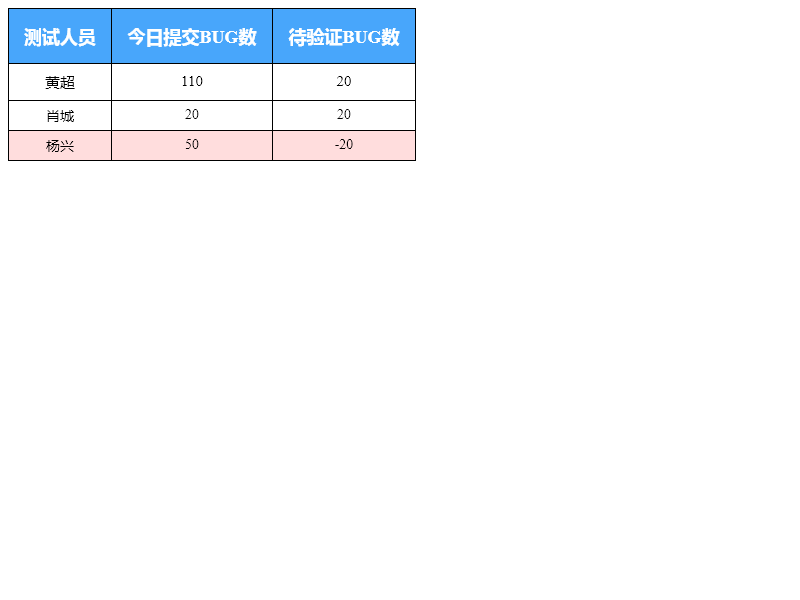
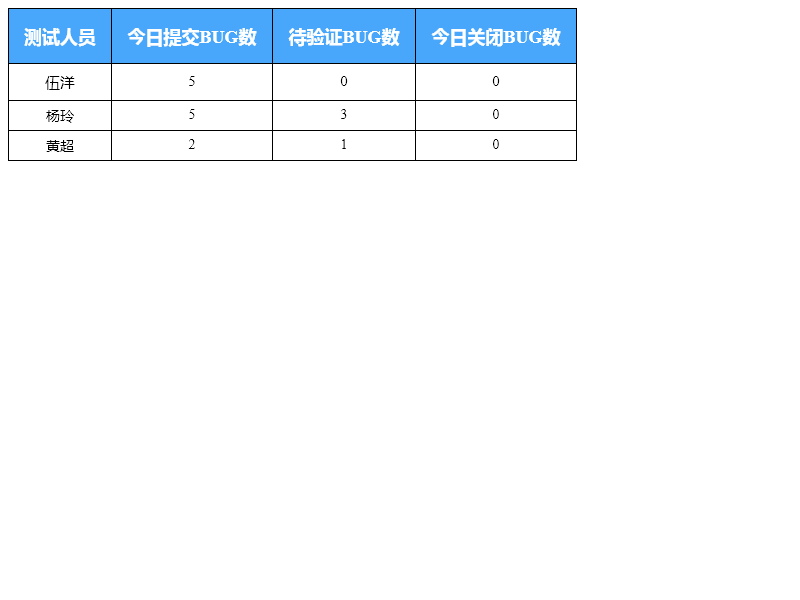
12/15

diff --git a/Tapd/html/testerHtml.html b/Tapd/html/testerHtml.html
@@ -5,6 +5,6 @@
     <title>模板</title>
 </head>
 <body>
-<table style="border-collapse:collapse;word-break:keep-all;white-space:nowrap;font-size:14px;"><tr style="color:#fff;background-color:#48a6fb;font-size:18px;"><th style="border-color:#000;border-width:1px;border-style:solid;padding:15px;text-align:center;">测试人员</th><th style="border-color:#000;border-width:1px;border-style:solid;padding:15px;text-align:center;">今日提交BUG数</th><th style="border-color:#000;border-width:1px;border-style:solid;padding:15px;text-align:center;">待验证BUG数</th></tr><tr><td style="border-color:#000;border-width:1px;border-style:solid;padding:8px;text-align:center;font-size:15px;">黄超</td><td style="border-color:#000;border-width:1px;border-style:solid;padding:8px;text-align:center;font-size:15px;">110</td><td style="border-color:#000;border-width:1px;border-style:solid;padding:8px;text-align:center;font-size:15px;">20</td></tr><tr><td style="border-color:#000;border-width:1px;border-style:solid;padding:5px;text-align:center;">肖城</td><td style="border-color:#000;border-width:1px;border-style:solid;padding:5px;text-align:center;">20</td><td style="border-color:#000;border-width:1px;border-style:solid;padding:5px;text-align:center;">20</td></tr><tr style="background-color:#ffdddd;"><td style="border-color:#000;border-width:1px;border-style:solid;padding:5px;text-align:center;">杨兴</td><td style="border-color:#000;border-width:1px;border-style:solid;padding:5px;text-align:center;">50</td><td style="border-color:#000;border-width:1px;border-style:solid;padding:5px;text-align:center;">-20</td></tr></table>
+<table style="border-collapse:collapse;word-break:keep-all;white-space:nowrap;font-size:14px;"><tr style="color:#fff;background-color:#48a6fb;font-size:18px;"><th style="border-color:#000;border-width:1px;border-style:solid;padding:15px;text-align:center;">测试人员</th><th style="border-color:#000;border-width:1px;border-style:solid;padding:15px;text-align:center;">今日提交BUG数</th><th style="border-color:#000;border-width:1px;border-style:solid;padding:15px;text-align:center;">待验证BUG数</th><th style="border-color:#000;border-width:1px;border-style:solid;padding:15px;text-align:center;">今日关闭BUG数</th></tr><tr><td style="border-color:#000;border-width:1px;border-style:solid;padding:8px;text-align:center;font-size:15px;">伍洋</td><td style="border-color:#000;border-width:1px;border-style:solid;padding:8px;text-align:center;font-size:15px;">5</td><td style="border-color:#000;border-width:1px;border-style:solid;padding:8px;text-align:center;font-size:15px;">0</td><td style="border-color:#000;border-width:1px;border-style:solid;padding:8px;text-align:center;font-size:15px;">0</td></tr><tr><td style="border-color:#000;border-width:1px;border-style:solid;padding:5px;text-align:center;">杨玲</td><td style="border-color:#000;border-width:1px;border-style:solid;padding:5px;text-align:center;">5</td><td style="border-color:#000;border-width:1px;border-style:solid;padding:5px;text-align:center;">3</td><td style="border-color:#000;border-width:1px;border-style:solid;padding:5px;text-align:center;">0</td></tr><tr><td style="border-color:#000;border-width:1px;border-style:solid;padding:5px;text-align:center;">黄超</td><td style="border-color:#000;border-width:1px;border-style:solid;padding:5px;text-align:center;">2</td><td style="border-color:#000;border-width:1px;border-style:solid;padding:5px;text-align:center;">1</td><td style="border-color:#000;border-width:1px;border-style:solid;padding:5px;text-align:center;">0</td></tr></table>
 </body>
 </html>

diff --git a/Tapd/main.py b/Tapd/main.py
@@ -1,4 +1,7 @@
+#-*-coding:utf-8-*-
 import math
+import os
+
 import matplotlib.pyplot as plt
 import numpy as np
 from selenium import webdriver
@@ -6,6 +9,9 @@ from fake_useragent import UserAgent
 from selenium.webdriver.chrome.options import Options
 from time import localtime, strftime, time
 from Tapd.crawlingData import crawlingData
+from Tapd.createHtml import createHtml
+from Tapd.screenshot import createPng
+from Tapd.sendMessage import sendPNGMessage
 from Tapd.utils import getdateNum
 
 
@@ -15,7 +21,7 @@ chrome_options.add_argument('User-Agent={}'.format(UserAgent().chrome))
 driver = webdriver.Chrome(options=chrome_options)
 
 my_datas = crawlingData(driver)
-today = strftime("%Y-%m-%d", localtime(time()))
+# print(my_datas)
 
 def draw_chart(dict, label_name, y_name, title, path):
     # 解决plt画图中文不能显示的问题
@@ -81,43 +87,109 @@ def draw_chart(dict, label_name, y_name, title, path):
 def draw(list, dict, my_datas):
     # 每日新增BUG数
     dict1 = {i:getdateNum(my_datas, {"创建时间": i}) for i in list}
-    draw_chart(dict1, 'bugs', 'bug_datas', '每日新增bug数', './png/每日新增bug数.jpg')
+    draw_chart(dict1, 'bugs', 'bug_datas', '每日新增bug数', './png/每日新增bug数.png')
 
     # 每日待修复BUG数
-    draw_chart(dict, 'bugs', 'bug_datas', '每日待修复BUG数', './png/每日待修复BUG数.jpg')
+    draw_chart(dict, 'bugs', 'bug_datas', '每日待修复BUG数', './png/每日待修复BUG数.png')
 
     # 每日已解决BUG数
     dict3 = {i: getdateNum(my_datas, {"解决时间": i}) for i in list}
-    draw_chart(dict3, 'bugs', 'bug_datas', '每日解决bug数', './png/每日解决bug数.jpg')
+    draw_chart(dict3, 'bugs', 'bug_datas', '每日解决bug数', './png/每日解决bug数.png')
 
     # 每日关闭BUG数
     dict4 = {i: getdateNum(my_datas, {"关闭时间": i}) for i in list}
-    draw_chart(dict4, 'bugs', 'bug_datas', '每日关闭bug数', './png/每日关闭bug数.jpg')
+    draw_chart(dict4, 'bugs', 'bug_datas', '每日关闭bug数', './png/每日关闭bug数.png')
 
 
-def statisticsDta(my_datas,today) -> int:
-    print("每日新增BUG数：{}".format(getdateNum(my_datas, {"创建时间": today})))
-    print("每日待修复BUG数：{}".format(getdateNum(my_datas, {"状态": '新'})))
-    activation_bugs = getdateNum(my_datas, {"状态": '新'})
-    print("每日已解决BUG数：{}".format(getdateNum(my_datas, {"解决时间": today})))
-    print("每日关闭BUG数：{}".format(getdateNum(my_datas, {"关闭时间": today})))
+def statisticsDta(my_datas,today,version) -> int:
+    print("每日新增BUG数：{}".format(getdateNum(my_datas, {"创建时间": today, '发现版本': version})))
+    print("每日待修复BUG数：{}".format(getdateNum(my_datas, {"状态": '新', '发现版本': version})))
+    activation_bugs = getdateNum(my_datas, {"状态": '新', '发现版本': version})
+    print("每日已解决BUG数：{}".format(getdateNum(my_datas, {"解决时间": today, '发现版本': version})))
+    print("每日关闭BUG数：{}".format(getdateNum(my_datas, {"关闭时间": today, '发现版本': version})))
     return activation_bugs
 
+
+def testerData(my_datas, person, today, version):
+    testerListData = []
+    submit_bugs = getdateNum(my_datas, {"创建时间": today, '创建人': person, '发现版本': version})
+    verified_bugs = getdateNum(my_datas, {"状态": "已解决", '处理人': person, '发现版本': version})
+    close_bugs = getdateNum(my_datas, {"关闭时间": today, '创建人': person, '发现版本': version})
+    testerListData.append(person)
+    testerListData.append(str(submit_bugs))
+    testerListData.append(str(verified_bugs))
+    testerListData.append(str(close_bugs))
+    return testerListData
+
+def developerData(my_datas, person, today, version):
+    developerListData = []
+    solved_bugs = getdateNum(my_datas, {"解决时间": today, '修复人': person, "状态": "已解决", '发现版本': version})
+    surplus_bugs = getdateNum(my_datas, {"状态": "新", '处理人': person, '发现版本': version})
+
+    developerListData.append(person)
+    developerListData.append(str(solved_bugs))
+    developerListData.append(str(surplus_bugs))
+    return developerListData
+
+
 if __name__ == '__main__':
-
+    today = strftime("%Y-%m-%d", localtime(time()))
+    version = '2.1.6'
     # 统计总数居 -> 返回当日激活BUG数
-    activation_bugs = statisticsDta(my_datas,today)
+    activation_bugs = statisticsDta(my_datas,today,version)
 
-    list = ["2020-12-14", today]
-    dict = {"2020-12-14":69, today:activation_bugs}
+    # --- 脚本修改的地方 ---
+    # list = ["2020-12-15", today]
+    list = [today]
+    # dict = {"2020-12-15":7, today:activation_bugs}
+    dict = {today:activation_bugs}
+
+
     draw(list, dict, my_datas)
 
+    developer = ["吴吉", "李星", "孙运", "龙庆玉", "袁章珂", "沈滔", "潘清", "陈梦晗"]
+    tester = ["伍洋", "杨玲", "黄超"]
 
-# today = strftime("%Y-%m-%d", localtime(time()))
-# dict = [{"创建人":creator_name, "创建时间":today} for creator_name in creator_names]
-# print(dict)
-#
-#
-# for x in dict:
-#     num = getdateNum(data_list,x)
-#     print(x["创建人"]," 今日提交BUG数为"," :{}".format(num))
+    # 测试
+    testerTotalData = []
+    for person in tester:
+        testerTotalData.append(testerData(my_datas, person, today, version))
+
+    Title = (('测试人员', '今日提交BUG数', '待验证BUG数', '今日关闭BUG数'),)
+    tester_html = 'testerHtml.html'
+    createHtml(Title, testerTotalData, tester_html)
+
+    html_path = os.path.realpath("html/testerHtml.html")
+    screenshot_path = "./png/test.png"
+    testerPNG_path = './png/tester.png'
+    createPng(driver, html_path, screenshot_path, testerPNG_path)
+
+    # 开发
+    developerTotalData = []
+    for person in developer:
+        developerTotalData.append(developerData(my_datas, person, today, version))
+
+    Title = (('开发人员', '今日解决BUG数', '待解决BUG数'),)
+    developer_html = 'developerHtml.html'
+    createHtml(Title, developerTotalData, developer_html)
+
+    html_path = os.path.realpath("html/developerHtml.html")
+    screenshot_path = "./png/develop.png"
+    developPNG_path = './png/developer.png'
+    createPng(driver, html_path, screenshot_path, developPNG_path)
+
+    todayCloseBug = './png/每日关闭bug数.png'
+    todayFixedBug = './png/每日待修复BUG数.png'
+    todayAddBug = './png/每日新增bug数.png'
+    todaySolvedBug = './png/每日解决bug数.png'
+    sendPNGMessage(testerPNG_path)
+    sendPNGMessage(developPNG_path)
+    sendPNGMessage(todayCloseBug)
+    sendPNGMessage(todayFixedBug)
+    sendPNGMessage(todayAddBug)
+    sendPNGMessage(todaySolvedBug)
+
+
+
+
+

diff --git a/Tapd/sendMessage.py b/Tapd/sendMessage.py
@@ -3,44 +3,46 @@ import hashlib
 import requests
 from fake_useragent import UserAgent
 
-headers = {
-    "User-Agent": UserAgent().chrome,
-    "Content-Type": "application/json"
-}
-url = "https://qyapi.weixin.qq.com/cgi-bin/webhook/send?key=f24732df-c9fc-4719-9860-e52a67adcfa4"
-
-# params = {
-#     "msgtype": "text",
-#     "text": {
-#         "content": "广州今日天气：29度，大部分多云，降雨概率：60%",
-#         "mentioned_list":[""]
-#     }
-# }
-# params = {
-#     "msgtype": "image",
-#     "image": {
-#         "base64": "DATA",
-#         "md5": "MD5"
-#     }
-# }
-
-with open("./png/tester.png", 'rb') as file:  # 转换图片成base64格式
-    data = file.read()
-    encodestr = base64.b64encode(data)
-    image_data = str(encodestr, 'utf-8')
-
-with open("./png/tester.png", 'rb') as file:  # 图片的MD5值
-    md = hashlib.md5()
-    md.update(file.read())
-    image_md5 = md.hexdigest()
-
-data = {
-    "msgtype": "image",
-    "image": {
-        "base64": image_data,
-        "md5": image_md5
+def sendPNGMessage(png_path):
+    headers = {
+        "User-Agent": UserAgent().chrome,
+        "Content-Type": "application/json"
     }
-}
+    url = "https://qyapi.weixin.qq.com/cgi-bin/webhook/send?key=f24732df-c9fc-4719-9860-e52a67adcfa4"
+    # url = "https://qyapi.weixin.qq.com/cgi-bin/webhook/send?key=77a5ea6c-fbd2-43c3-b053-3fc0f026514b"
 
-response = requests.post(url, headers=headers, json=data)
-print(response.status_code)
+    # params = {
+    #     "msgtype": "text",
+    #     "text": {
+    #         "content": "广州今日天气：29度，大部分多云，降雨概率：60%",
+    #         "mentioned_list":[""]
+    #     }
+    # }
+    # params = {
+    #     "msgtype": "image",
+    #     "image": {
+    #         "base64": "DATA",
+    #         "md5": "MD5"
+    #     }
+    # }
+
+    with open(png_path, 'rb') as file:  # 转换图片成base64格式
+        data = file.read()
+        encodestr = base64.b64encode(data)
+        image_data = str(encodestr, 'utf-8')
+
+    with open(png_path, 'rb') as file:  # 图片的MD5值
+        md = hashlib.md5()
+        md.update(file.read())
+        image_md5 = md.hexdigest()
+
+    data = {
+        "msgtype": "image",
+        "image": {
+            "base64": image_data,
+            "md5": image_md5
+        }
+    }
+
+    response = requests.post(url, headers=headers, json=data)
+

diff --git a/Tapd/crawlingData.py b/Tapd/crawlingData.py
@@ -24,11 +24,11 @@ def crawlingData(driver):
         bug_closeTime = driver.find_elements_by_xpath('//*[@id="bug_list_content"]/tbody/tr/td[11]')
         bug_solveTime = driver.find_elements_by_xpath('//*[@id="bug_list_content"]/tbody/tr/td[12]')
         bug_verificationTime = driver.find_elements_by_xpath('//*[@id="bug_list_content"]/tbody/tr/td[13]')
+        fixPeople = driver.find_elements_by_xpath('//*[@id="bug_list_content"]/tbody/tr/td[14]')
 
-        for bug_title, version, severity, priority, state, handler, creator, bug_createTime, bug_closeTime, bug_solveTime, bug_verificationTime\
-                in zip(bug_title, version, severity, priority, state, handler, creator, bug_createTime, bug_closeTime, bug_solveTime, bug_verificationTime):
-            data_list.append({"bug标题":bug_title.text, "发现版本":version.text, "严重程度":severity.text, "优先级":priority.text, "状态":state.text, "处理人":handler.text, "创建人":creator.text,
-                              "创建时间":bug_createTime.text.split(' ')[0], "关闭时间":bug_closeTime.text.split(' ')[0], "解决时间":bug_solveTime.text.split(' ')[0], "验证时间":bug_verificationTime.text.split(' ')[0]})
+        for bug_title, version, severity, priority, state, handler, creator, bug_createTime, bug_closeTime, bug_solveTime, bug_verificationTime, fixPeople in zip(bug_title, version, severity, priority, state, handler, creator, bug_createTime, bug_closeTime, bug_solveTime, bug_verificationTime, fixPeople):
+            data_list.append({"bug标题":bug_title.text, "发现版本":version.text, "严重程度":severity.text, "优先级":priority.text, "状态":state.text, "处理人":handler.text.split(';')[0], "创建人":creator.text.strip(),
+                              "创建时间":bug_createTime.text.split(' ')[0], "关闭时间":bug_closeTime.text.split(' ')[0], "解决时间":bug_solveTime.text.split(' ')[0], "验证时间":bug_verificationTime.text.split(' ')[0], "修复人":fixPeople.text.strip()})
         if len(driver.find_elements_by_xpath('//div[@id="simple_pager_div"]/span[2]/a')) != 0:
             driver.find_element_by_xpath('//span[@class="page-btn page-next"]').click()
         else:

diff --git a/Tapd/createHtml.py b/Tapd/createHtml.py
@@ -56,11 +56,11 @@ def createHtml(title, data, tester_html):
     })
 
     # 遍历数据行，对应数据为负，标红背景颜色
-    for row in table.iter_data_rows():
-        if row[2].value < 0:
-            row.set_style({
-                'background-color': '#ffdddd',
-            })
+    # for row in table.iter_data_rows():
+    #     if row[2].value < 0:
+    #         row.set_style({
+    #             'background-color': '#ffdddd',
+    #         })
 
     html = table.to_html()
 
@@ -71,11 +71,12 @@ def createHtml(title, data, tester_html):
         template_wfile.write(html)
 
 if __name__ == '__main__':
-    Title = (('测试人员','今日提交BUG数','待验证BUG数'),)
-    data = (
-        ('黄超', 110, 20),
-        ('肖城', 20, 20),
-        ('杨兴', 50, -20),
-    )
+    Title = (('测试人员','今日提交BUG数','待验证BUG数','今日关闭BUG数'),)
+    data = [
+        ['黄超', 110, "0", 10],
+        ['肖城', 20, "0", 10],
+        ['杨兴', 50, "0", 10]
+    ]
     tester_html = 'testerHtml.html'
     createHtml(Title, data, tester_html)
+

diff --git a/Tapd/screenshot.py b/Tapd/screenshot.py
@@ -1,13 +1,9 @@
 import os
 
 from PIL import Image
-from selenium import webdriver
-from selenium.webdriver.chrome.options import Options
 
-def createPng(html_path, screenshot_path, png_path):
-    chrome_options = Options()
-    chrome_options.add_argument('--headless')
-    driver = webdriver.Chrome(options=chrome_options)
+
+def createPng(driver, html_path, screenshot_path, png_path):
     driver.maximize_window()
     realPath = "file://" + html_path
     driver.get(realPath)
